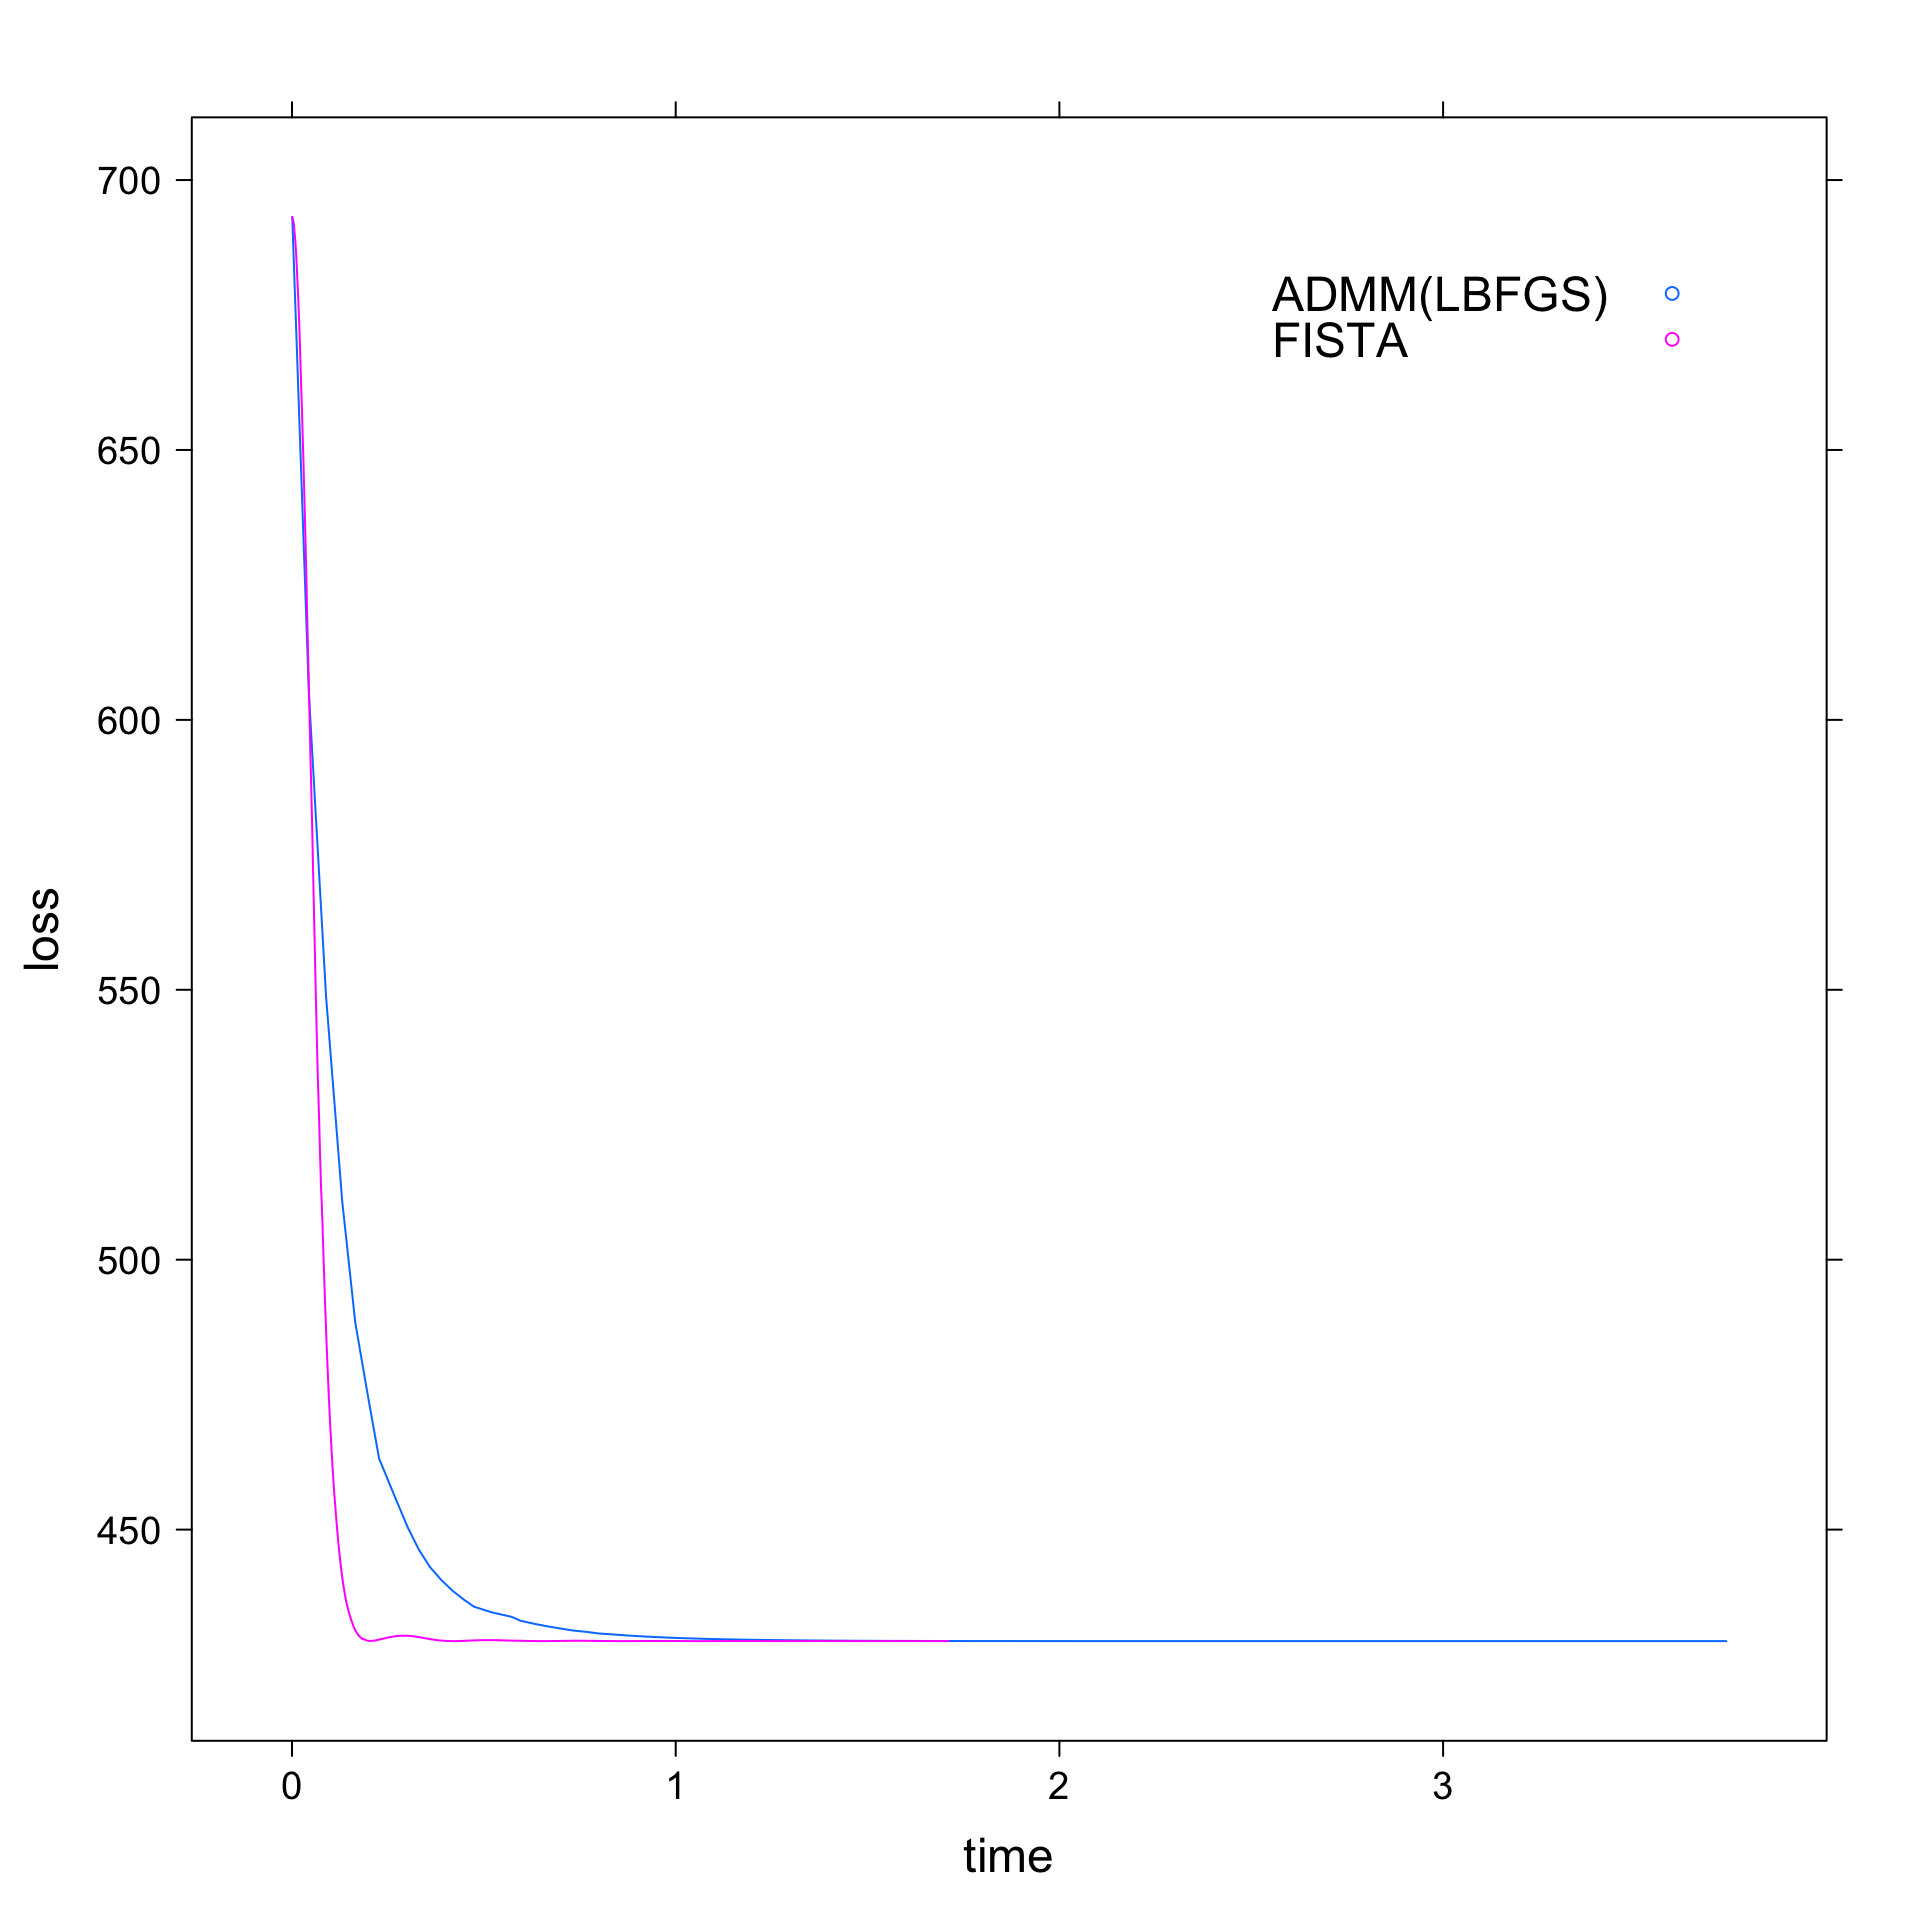
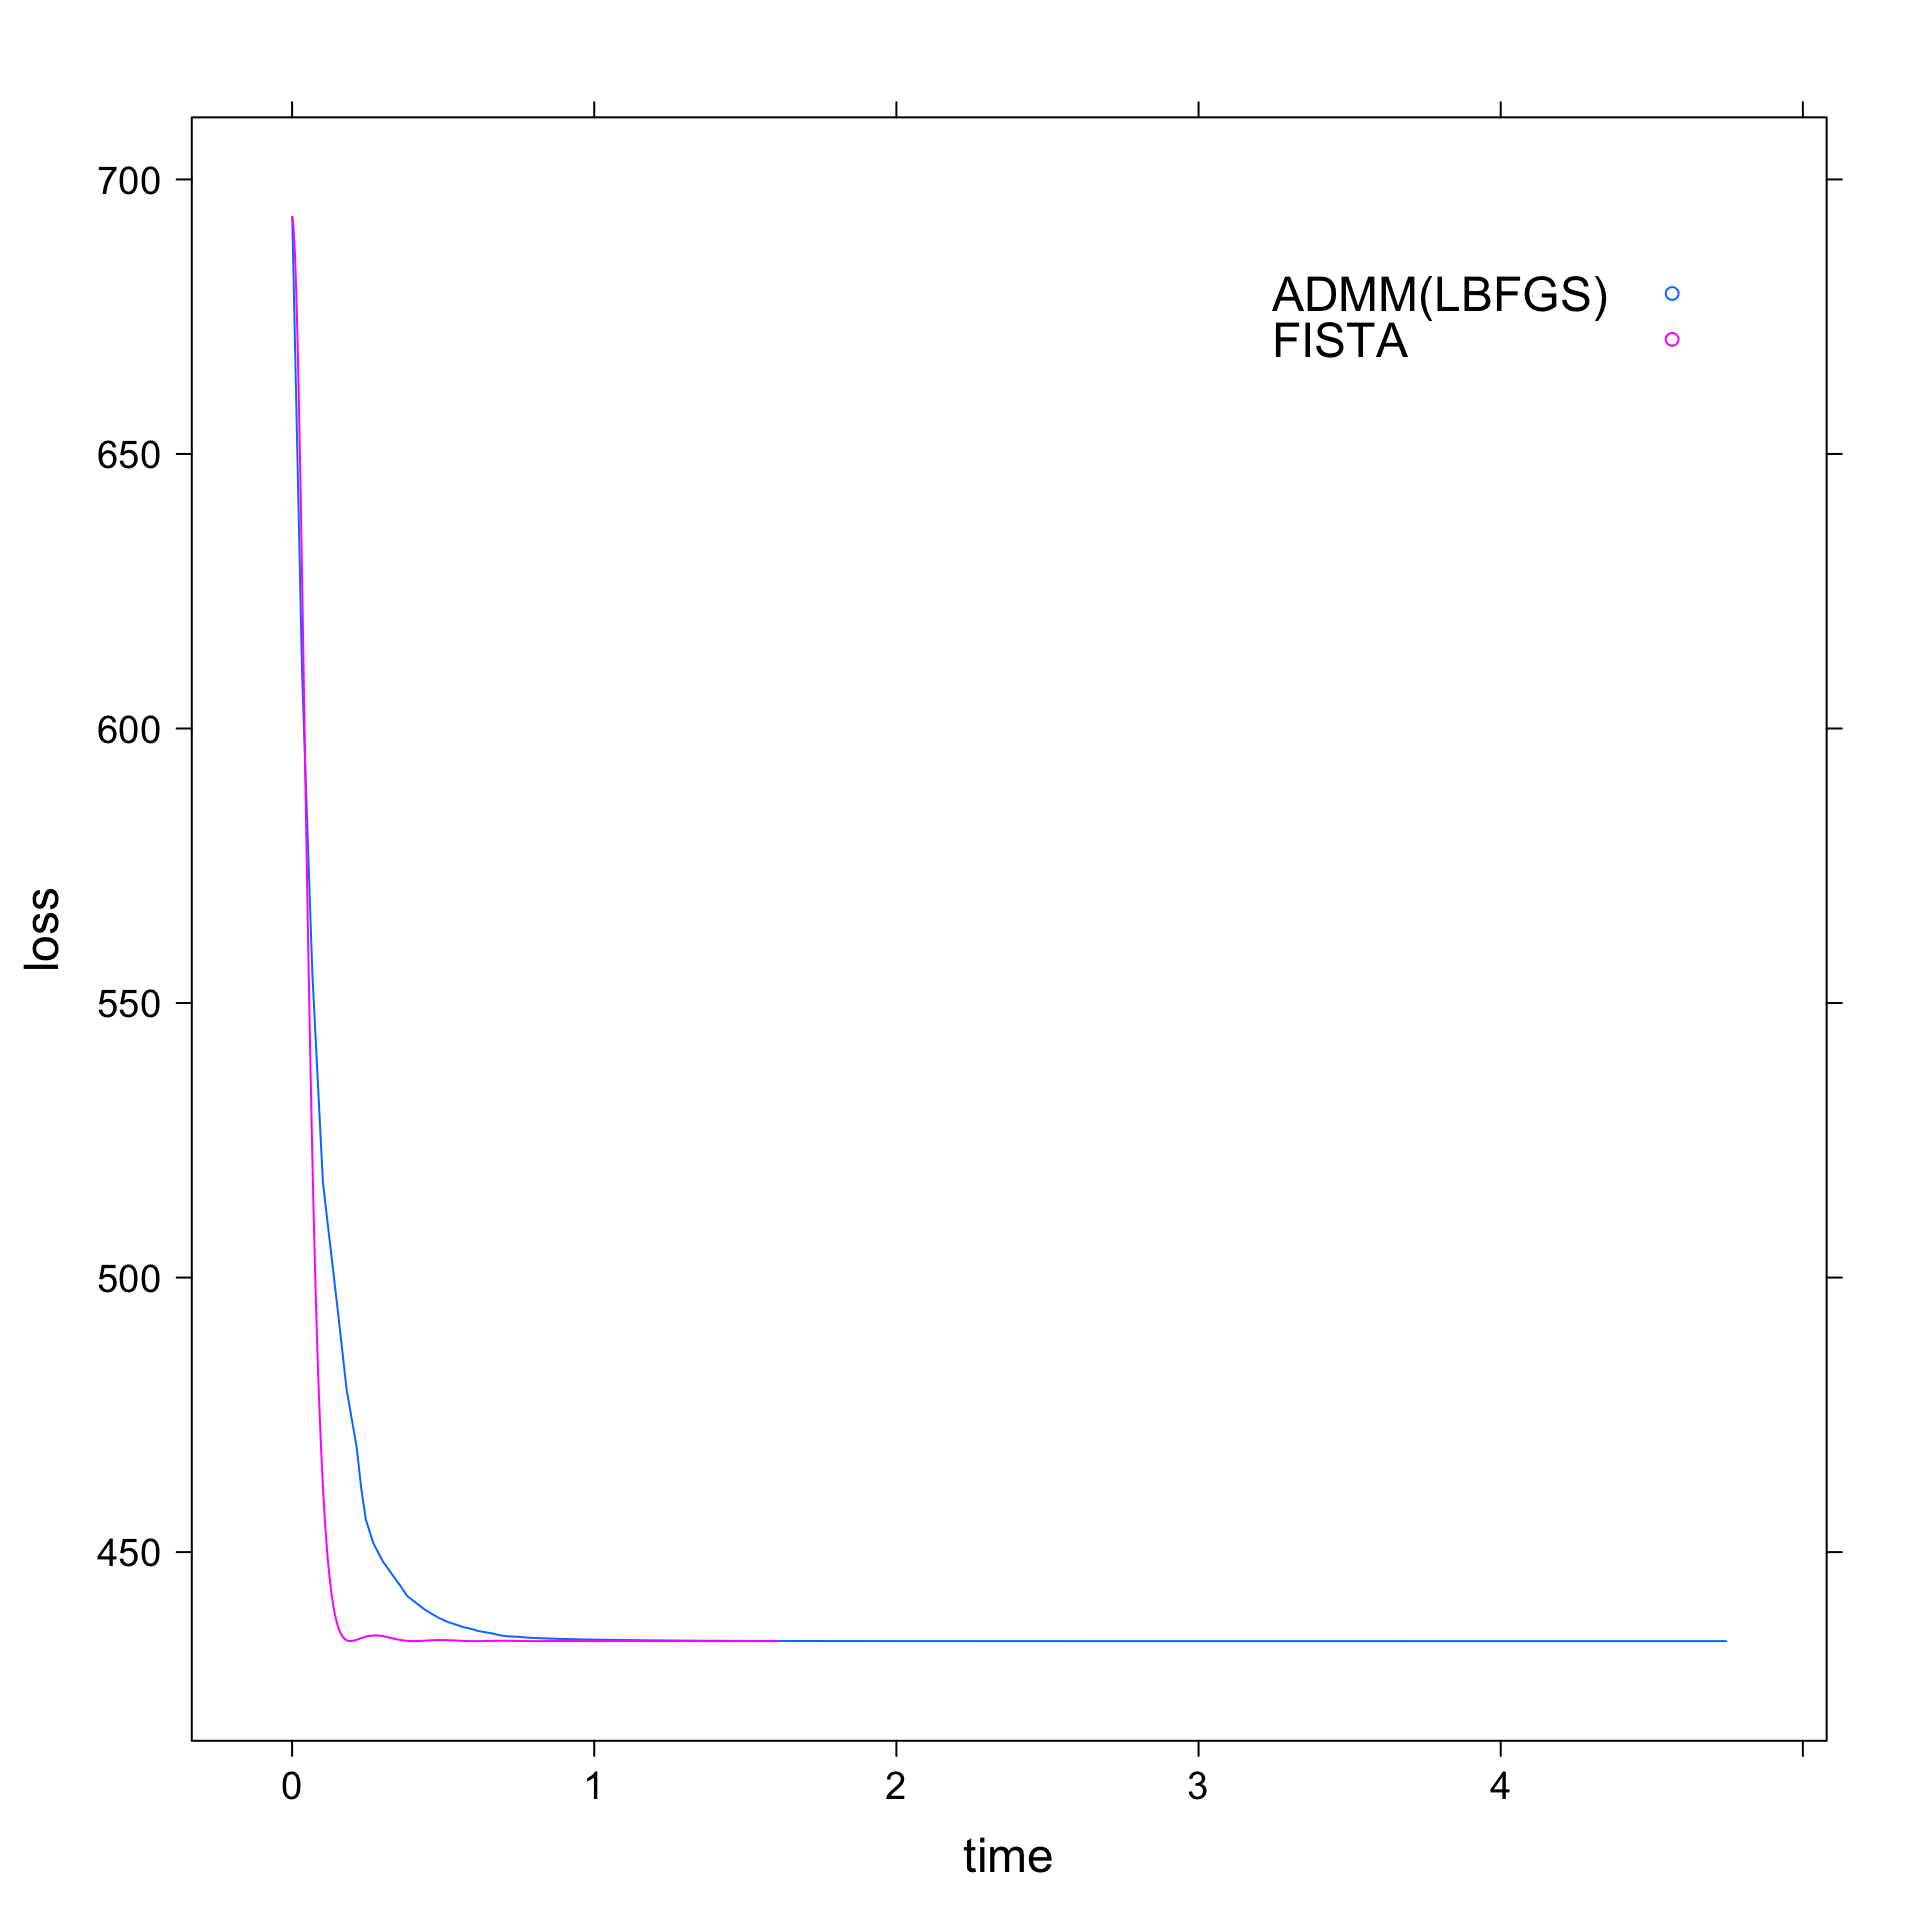
Built site for solvers: 1.0@b998bd3

diff --git a/articles/compare_opt_algo.html b/articles/compare_opt_algo.html
@@ -111,11 +111,11 @@
 <div class="sourceCode" id="cb4"><pre class="downlit">
 <span class="co"># Comparing total execution time</span>
 <span class="fu"><a href="https://rdrr.io/r/base/print.html">print</a></span>(<span class="kw">admm_nr</span><span class="op">$</span><span class="kw">total_time</span>)
-<span class="co">#&gt; [1] 0.8445297</span>
+<span class="co">#&gt; [1] 0.7305688</span>
 <span class="fu"><a href="https://rdrr.io/r/base/print.html">print</a></span>(<span class="kw">admm_bfgs</span><span class="op">$</span><span class="kw">total_time</span>)
-<span class="co">#&gt; [1] 3.24005</span>
+<span class="co">#&gt; [1] 2.759105</span>
 <span class="fu"><a href="https://rdrr.io/r/base/print.html">print</a></span>(<span class="kw">admm_lbfgs</span><span class="op">$</span><span class="kw">total_time</span>)
-<span class="co">#&gt; [1] 3.49391</span>
+<span class="co">#&gt; [1] 3.830718</span>
 </pre></div>
 <p>Now, these fits cannot be directly used to plot as they contain a lot of parameter so we’ll call a utility function that merges the relevant parameter and returns a dataframe.</p>
 <div class="sourceCode" id="cb5"><pre class="downlit">

diff --git a/articles/compare-fista-admm.html b/articles/compare-fista-admm.html
@@ -111,9 +111,9 @@
 <div class="sourceCode" id="cb4"><pre class="downlit">
 <span class="co"># Comparing total execution time</span>
 <span class="fu"><a href="https://rdrr.io/r/base/print.html">print</a></span>(<span class="kw">fista_fit</span><span class="op">$</span><span class="kw">total_time</span>)
-<span class="co">#&gt; [1] 1.712385</span>
+<span class="co">#&gt; [1] 1.608081</span>
 <span class="fu"><a href="https://rdrr.io/r/base/print.html">print</a></span>(<span class="kw">admm_fit</span><span class="op">$</span><span class="kw">total_time</span>)
-<span class="co">#&gt; [1] 3.776994</span>
+<span class="co">#&gt; [1] 4.791804</span>
 </pre></div>
 <p>Now, these fits cannot be directly used to plot as they contain a lot of parameter so we’ll call a utility function that merges the relevant parameter and returns a dataframe.</p>
 <div class="sourceCode" id="cb5"><pre class="downlit">
